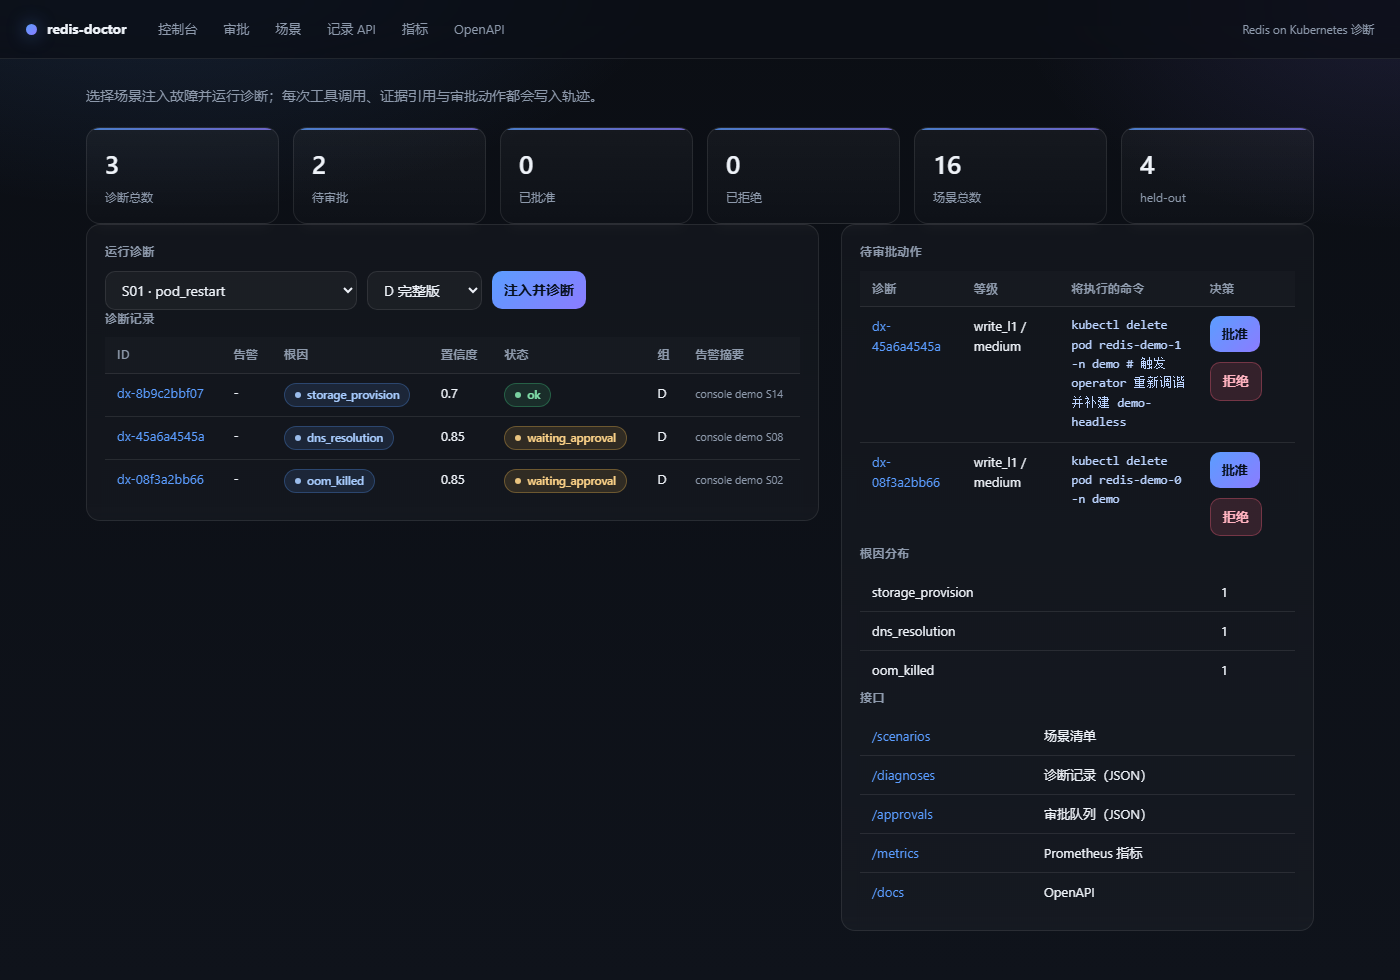
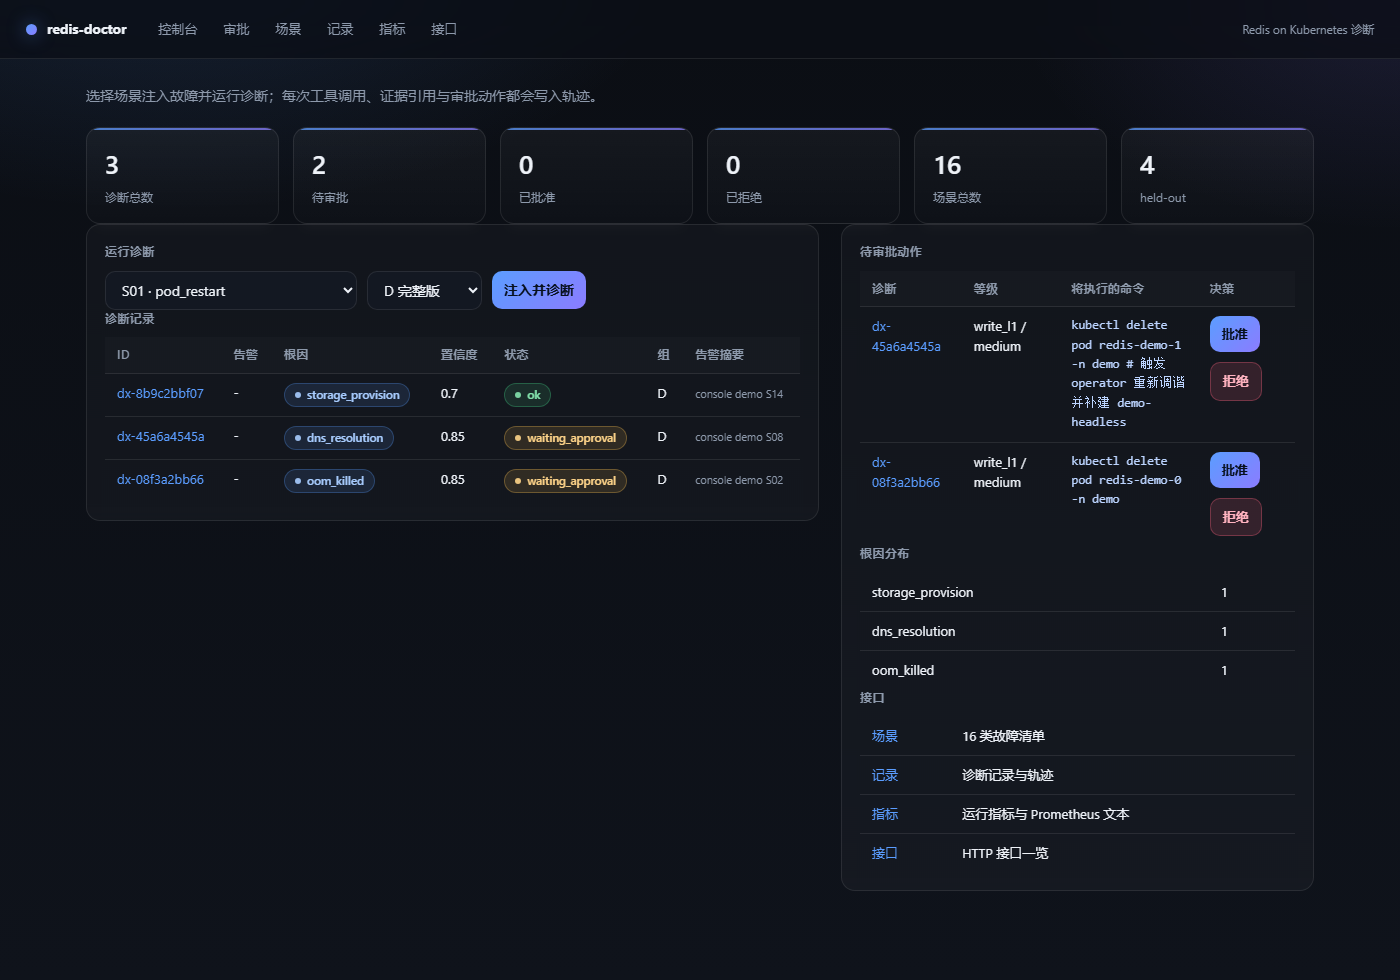
ui: dark-native form controls and HTML pages for scenarios/records/metrics/api
- color-scheme:dark plus explicit select/option colours: the scenario dropdown
  rendered white-on-white in the desktop browser
- nav now points at real HTML pages (/ui/scenarios, /ui/records, /ui/metrics,
  /ui/api) instead of JSON endpoints and Swagger UI, which the in-app browser
  cannot render offline; JSON APIs remain unchanged

Changed region(s): [[0.6143, 0.8265, 0.8293, 0.9184], [0.6143, 0.7347, 0.8293, 0.7959], [0.2764, 0.0, 0.3071, 0.0306]]

diff --git a/api/ui.py b/api/ui.py
@@ -13,6 +13,7 @@ from typing import Any
 
 STYLE = """
 :root{
+  color-scheme:dark;
   --bg:#0b0e14;--bg2:#0f131b;--panel:rgba(255,255,255,.028);--line:rgba(255,255,255,.09);
   --line-strong:rgba(255,255,255,.16);--fg:#eef2f8;--muted:#8d99ab;--accent:#5b9dff;
   --accent2:#8b7cff;--radius:14px;
@@ -80,9 +81,10 @@ pre{background:rgba(0,0,0,.32);border:1px solid var(--line);border-radius:10px;p
 .bad{background:rgba(255,99,126,.12);color:#ff9db0;border-color:rgba(255,99,126,.3)}
 .warn{background:rgba(255,196,84,.12);color:#ffd58a;border-color:rgba(255,196,84,.3)}
 form.inline{display:flex;gap:10px;align-items:center;flex-wrap:wrap}
-select,input,button{font:inherit;color:var(--fg);background:rgba(255,255,255,.04);
+select,input,button{font:inherit;color:var(--fg);background:#131822;
   border:1px solid var(--line);border-radius:10px;padding:8px 12px;
   transition:border-color .15s,background .15s}
+select option{background:#131822;color:var(--fg)}
 select:hover,input:hover{border-color:var(--line-strong)}
 select:focus,input:focus,button:focus{outline:none;border-color:var(--accent);
   box-shadow:0 0 0 3px rgba(91,157,255,.2)}
@@ -109,8 +111,8 @@ def layout(title: str, body: str) -> str:
         "<header><span class='brand'><span class='mark'></span>"
         "<a href='/ui' style='color:inherit'>redis-doctor</a></span>"
         "<nav><a href='/ui'>控制台</a><a href='/ui/approvals'>审批</a>"
-        "<a href='/scenarios'>场景</a><a href='/diagnoses'>记录 API</a>"
-        "<a href='/metrics'>指标</a><a href='/docs'>OpenAPI</a></nav>"
+        "<a href='/ui/scenarios'>场景</a><a href='/ui/records'>记录</a>"
+        "<a href='/ui/metrics'>指标</a><a href='/ui/api'>接口</a></nav>"
         "<span class='spacer'></span><small>Redis on Kubernetes 诊断</small>"
         "</header><main>" + body + "</main></body></html>"
     )
@@ -213,11 +215,10 @@ def dashboard_page(
         )
         + "</table>",
         "<h3>接口</h3>",
-        "<table><tr><td><a href='/scenarios'>/scenarios</a></td><td>场景清单</td></tr>"
-        "<tr><td><a href='/diagnoses'>/diagnoses</a></td><td>诊断记录（JSON）</td></tr>"
-        "<tr><td><a href='/approvals'>/approvals</a></td><td>审批队列（JSON）</td></tr>"
-        "<tr><td><a href='/metrics'>/metrics</a></td><td>Prometheus 指标</td></tr>"
-        "<tr><td><a href='/docs'>/docs</a></td><td>OpenAPI</td></tr></table>",
+        "<table><tr><td><a href='/ui/scenarios'>场景</a></td><td>16 类故障清单</td></tr>"
+        "<tr><td><a href='/ui/records'>记录</a></td><td>诊断记录与轨迹</td></tr>"
+        "<tr><td><a href='/ui/metrics'>指标</a></td><td>运行指标与 Prometheus 文本</td></tr>"
+        "<tr><td><a href='/ui/api'>接口</a></td><td>HTTP 接口一览</td></tr></table>",
         "</div></div></div>",
     ]
     return layout("控制台", "".join(body))
@@ -306,3 +307,91 @@ def approvals_page(pending: list[dict[str, Any]]) -> str:
         + "</table>"
     )
     return layout("审批", body)
+
+
+def scenarios_page(scenarios: list[dict[str, Any]]) -> str:
+    rows = "".join(
+        "<tr>"
+        f"<td><code>{_esc(s['id'])}</code></td>"
+        f"<td>{_esc(s['name'])}</td>"
+        f"<td><span class='pill'>{_esc(s['category'])}</span></td>"
+        f"<td>{'<span class="pill warn">held-out</span>' if s['held_out'] else ''}</td>"
+        f"<td>{'是' if s['kubectl_verified'] else '否'}</td>"
+        "</tr>"
+        for s in scenarios
+    )
+    body = (
+        "<h2>故障场景</h2>"
+        "<p class='lead'>每个场景在 faultlab/scenarios 下声明注入、恢复、告警文本、标准根因与"
+        "必须观察到的证据信号；held-out 表示该类别未写入手册。</p>"
+        "<div class='panel'><table><tr><th>#</th><th>故障</th><th>类别</th>"
+        "<th></th><th>真机注入已验证</th></tr>" + rows + "</table></div>"
+        "<p class='muted'>机器可读版本：<code>GET /scenarios</code></p>"
+    )
+    return layout("场景", body)
+
+
+def records_page(records: list[dict[str, Any]]) -> str:
+    rows = "".join(
+        "<tr>"
+        f"<td><a href='/ui/diagnoses/{_esc(r['id'])}'><code>{_esc(r['id'])}</code></a></td>"
+        f"<td>{_esc(r.get('root_cause') or '-')}</td>"
+        f"<td>{_esc(r.get('confidence'))}</td>"
+        f"<td>{_status_pill(r.get('status', ''))}</td>"
+        f"<td>{_esc(r.get('variant'))}</td>"
+        f"<td><small>{_esc((r.get('alert') or '').splitlines()[0])}</small></td>"
+        "</tr>"
+        for r in records
+    )
+    body = (
+        "<h2>诊断记录</h2>"
+        "<div class='panel'><table><tr><th>ID</th><th>根因</th><th>置信度</th><th>状态</th>"
+        "<th>组</th><th>告警</th></tr>"
+        + (rows or "<tr><td colspan='6' class='muted'>还没有诊断记录</td></tr>")
+        + "</table></div>"
+        "<p class='muted'>机器可读版本：<code>GET /diagnoses</code>，单条："
+        "<code>GET /diagnoses/{id}</code></p>"
+    )
+    return layout("记录", body)
+
+
+def metrics_page(stats: dict[str, Any], prometheus_text: str) -> str:
+    approvals = stats.get("approvals", {}) or {}
+    cards = [
+        ("诊断总数", stats.get("diagnoses", 0)),
+        ("待审批", approvals.get("pending", 0)),
+        ("已批准", approvals.get("approved", 0)),
+        ("已拒绝", approvals.get("denied", 0)),
+        ("告警指纹", stats.get("alert_fingerprints", 0)),
+        ("告警事件", stats.get("alert_events", 0)),
+    ]
+    body = (
+        "<h2>运行指标</h2>"
+        "<div class='cards'>"
+        + "".join(
+            f"<div class='card'><div class='v'>{_esc(v)}</div><div class='k'>{_esc(k)}</div></div>"
+            for k, v in cards
+        )
+        + "</div>"
+        "<div class='panel'><h3>Prometheus 文本</h3>"
+        f"<pre>{_esc(prometheus_text)}</pre></div>"
+        "<p class='muted'>采集地址：<code>GET /metrics</code></p>"
+    )
+    return layout("指标", body)
+
+
+def api_page(rows: list[tuple[str, str, str]]) -> str:
+    table = "".join(
+        f"<tr><td><span class='pill'>{_esc(method)}</span></td><td><code>{_esc(path)}</code></td>"
+        f"<td>{_esc(desc)}</td></tr>"
+        for method, path, desc in rows
+    )
+    body = (
+        "<h2>HTTP 接口</h2>"
+        "<div class='panel'><table><tr><th>方法</th><th>路径</th><th>说明</th></tr>"
+        + table
+        + "</table></div>"
+        "<p class='muted'>OpenAPI 描述：<code>GET /openapi.json</code>"
+        "（内置浏览器无法渲染 Swagger UI，故以本页代替）</p>"
+    )
+    return layout("接口", body)

diff --git a/api/app.py b/api/app.py
@@ -391,6 +391,40 @@ def create_app(settings: rdconfig.Settings | None = None) -> FastAPI:
     def scenarios() -> dict[str, Any]:
         return {"items": _scenarios()}
 
+    @app.get("/ui/scenarios", response_class=HTMLResponse)
+    def ui_scenarios() -> str:
+        return ui.scenarios_page(_scenarios())
+
+    @app.get("/ui/records", response_class=HTMLResponse)
+    def ui_records() -> str:
+        return ui.records_page(store.list_diagnoses(100))
+
+    @app.get("/ui/metrics", response_class=HTMLResponse)
+    def ui_metrics() -> str:
+        return ui.metrics_page(store.stats(), metrics.render())
+
+    @app.get("/ui/api", response_class=HTMLResponse)
+    def ui_api() -> str:
+        return ui.api_page(
+            [
+                ("GET", "/healthz", "存活探针"),
+                ("GET", "/readyz", "就绪探针，缺索引或未配置 token 时返回 503"),
+                (
+                    "POST",
+                    "/webhook/alertmanager",
+                    "Alertmanager 告警入口，需 Bearer token，按 fingerprint 冷却",
+                ),
+                ("POST", "/diagnose", "按告警文本运行一次诊断（沙箱可带 sandbox_scenario）"),
+                ("GET", "/diagnoses", "诊断记录列表"),
+                ("GET", "/diagnoses/{id}", "单次诊断，含工具轨迹与审批"),
+                ("GET", "/approvals", "待审批动作"),
+                ("POST", "/approvals/{id}", "批准或拒绝一个 L1 动作"),
+                ("GET", "/scenarios", "故障场景清单"),
+                ("GET", "/metrics", "Prometheus 指标"),
+                ("GET", "/openapi.json", "OpenAPI 描述"),
+            ]
+        )
+
     @app.post("/ui/diagnose")
     async def ui_diagnose(request: Request) -> RedirectResponse:
         """Run one sandbox diagnosis from the console and open its trajectory."""

diff --git a/tests/test_api.py b/tests/test_api.py
@@ -144,6 +144,22 @@ def test_console_dashboard_and_launcher(client) -> None:
     assert bad.status_code == 422
 
 
+def test_console_pages_render_html(client) -> None:
+    client.post("/diagnose", json={"alert_text": "alert", "sandbox_scenario": "S02"})
+    expectations = {
+        "/ui/scenarios": "故障场景",
+        "/ui/records": "诊断记录",
+        "/ui/metrics": "Prometheus 文本",
+        "/ui/api": "HTTP 接口",
+        "/ui": "运行诊断",
+    }
+    for path, marker in expectations.items():
+        response = client.get(path)
+        assert response.status_code == 200, path
+        assert "text/html" in response.headers["content-type"], path
+        assert marker in response.text, path
+
+
 def test_sandbox_scenario_refused_on_real_backend(client) -> None:
     client.app.state.settings.backend = "real"
     response = client.post("/diagnose", json={"alert_text": "x", "sandbox_scenario": "S02"})
